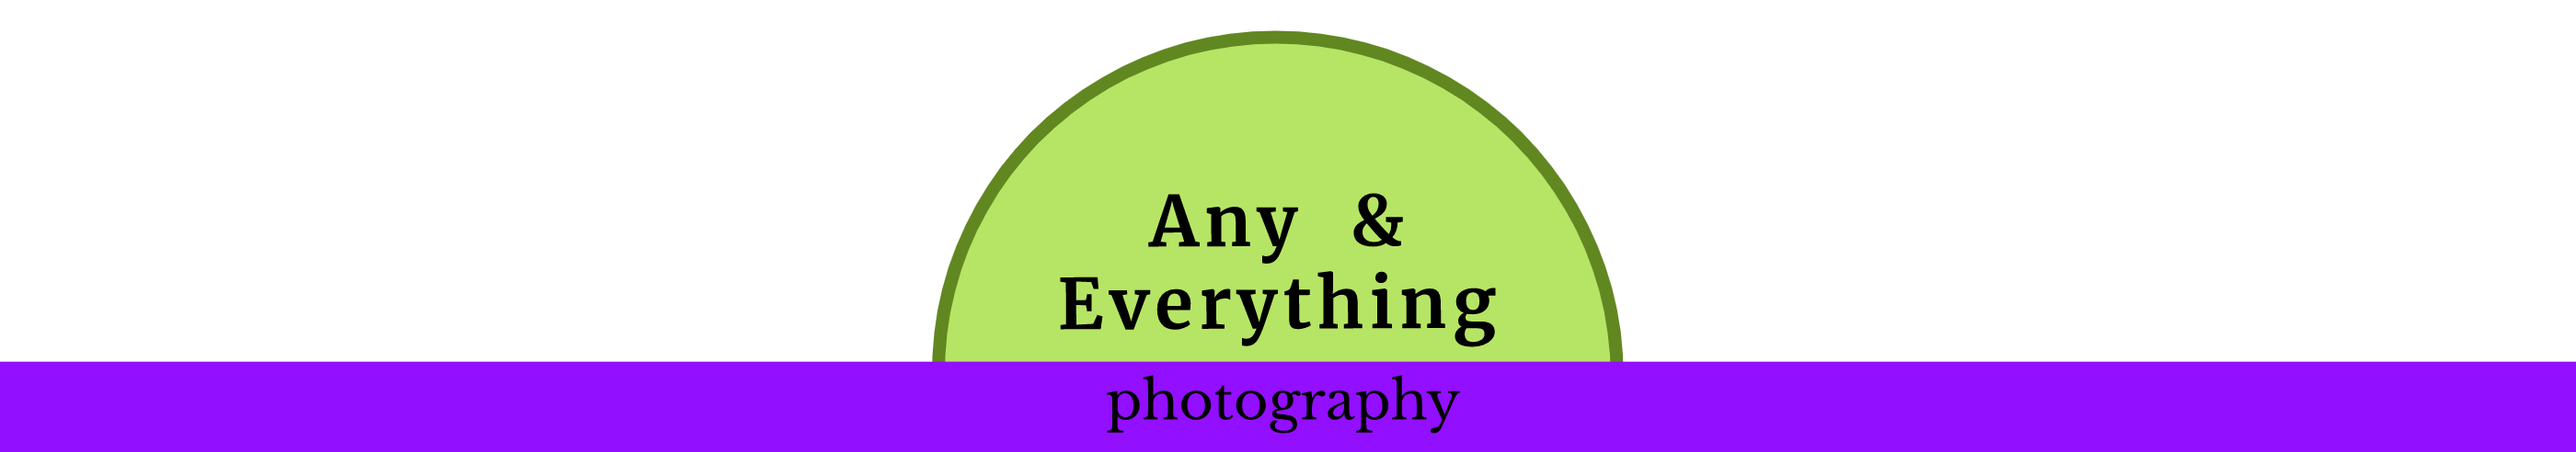
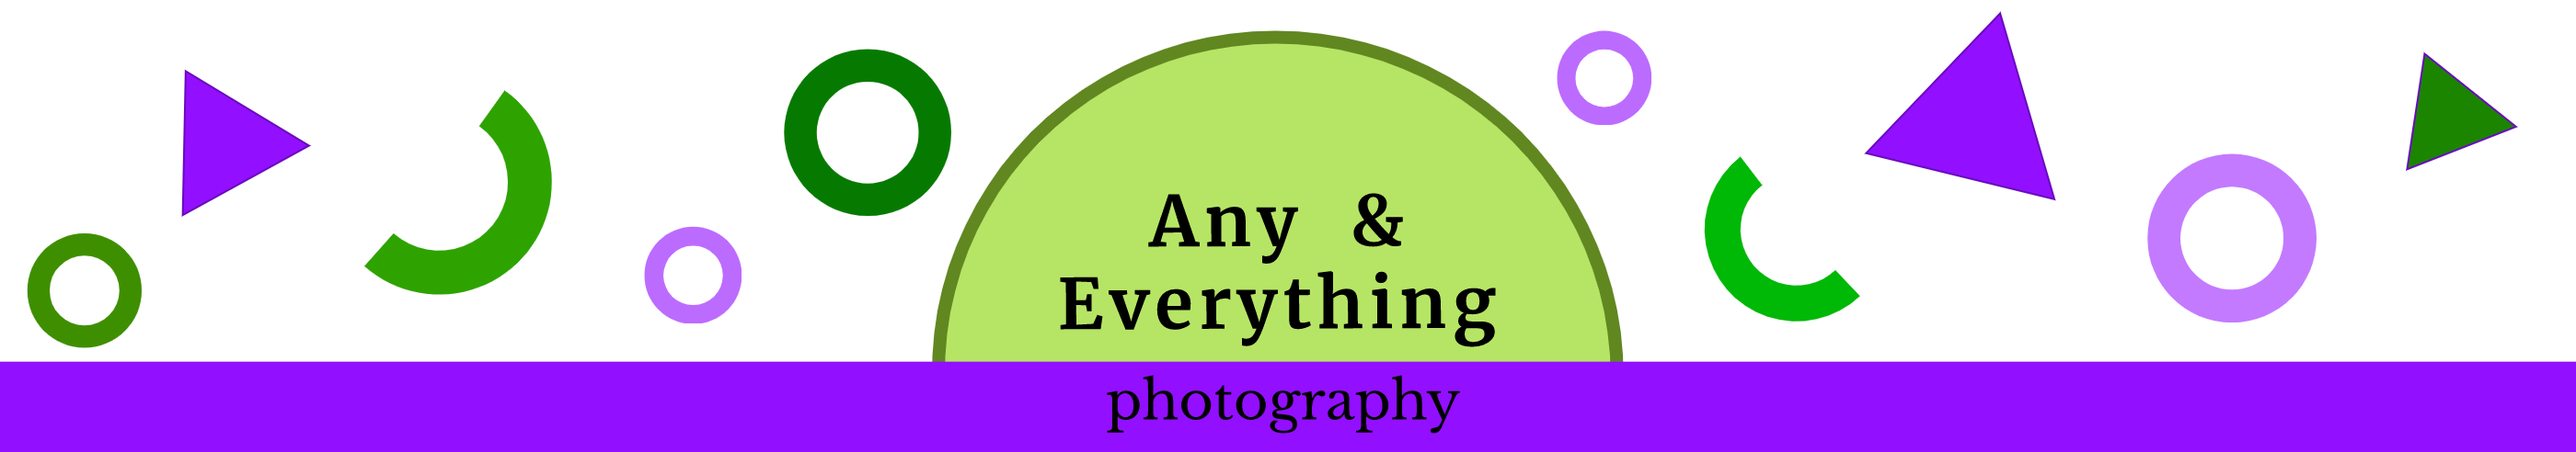
add more header styling

diff --git a/any/src/components/Header/index.js b/any/src/components/Header/index.js
@@ -1,4 +1,4 @@
-import React from "react";
+import React from "react"
 import headerimg from "../../assets/images/header-img/Drawing.png"
 
 
@@ -18,28 +18,6 @@ function Header(props) {
             </div>
           </div>
         </header>
-        <div>
-          
-          {/* 
-          <nav>
-            <ul>
-              {categories.map((category) => (
-                <li
-                  className={`mx-1 ${currentCategory.name === category.name && "navActive"}`}
-                  key={category.name}
-                >
-                  <span
-                    onClick={() => {
-                      setCurrentCategory(category);
-                    }}
-                  >
-                    {category.name + " • "}
-                  </span>
-                </li>
-              ))}
-            </ul>
-          </nav> */}
-        </div>
       </section>
     );
 }

diff --git a/any/src/components/Nav/index.js b/any/src/components/Nav/index.js
@@ -1,11 +1,9 @@
 import React from "react";
 import { NavLink } from "react-router-dom";
-// import { slide as Menu } from 'react-burger-menu'; //
 
 function Nav() {
 
-    return (
-
+    return ( 
         <div className="nav-container">
             <div className="nav-links">
                 <div className='menu-item'>

diff --git a/any/src/index.css b/any/src/index.css
@@ -16,7 +16,7 @@ code {
 
 .home-header-img {
   width: 100%;
-  background:#ab78e3;
+  background: #dcc0fa;
 }
 
 
@@ -42,7 +42,7 @@ code {
 
 
 
-
+/*
 .bm-item {
   display: inline-block;
   text-decoration: none;
@@ -83,3 +83,4 @@ code {
   padding: 2.5em 1.5em 0;
   font-size: 1.15em;
 }
+*/
